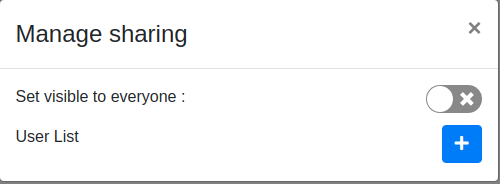
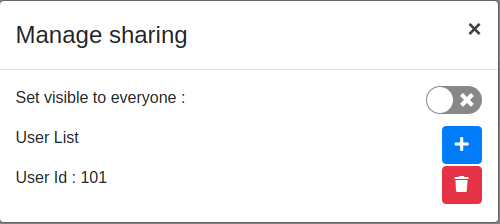
Front-end and API Docs updated

diff --git a/doc/Front-end/README.md b/doc/Front-end/README.md
@@ -67,41 +67,242 @@ Every component folder follow the same pattern and splitted in various files wit
 Now, as we are done with the basic information we will go through the components one by one.
 
 1. `about`: It's a simple static page.
-![about](./images/about.png)
 
-2. `addSound`: 
-![addSound](./images/addSound.png)
+    ![about](./images/about.png)
 
-3. `contact`: It's a simple static page.  
-![contact](./images/contact.png)
+2. `addSound (Class: AddSound)`:This one return the component shown below.  
+    - `required props`: 
+        - `name`: onSoundSelect, `type`: method  
 
-4. `form`: This folder consist of various self-explanatory custom made advance form inpust component which can be directly used throught the project
+    ![addSound1](./images/addSound_1.png)
 
-5. `header`:
-![header_1](./images/header_1.png)
-![header_2](./images/header_2.png)
+    If you click on the `select sound` button below modal will appear listing all the sounds files current user have.
+
+    ![addSound](./images/addSound.png)
+
+    How it does that?
+
+    When you click the `select sound` it calls the `fetchAudio` method to get information from the database and store them in the component state.Once the information is saved it calls the toggleModal button which simply results in the above shown modal.The bootstrap modal have a `ReactTable` component inside it's body and use the data from the component state to display the rows.  
+
+    You can see the `select` button along with every row in the table, it pass the info of the selected sound to the method `onSoundSelect` which is passed as a prop to the component.
+
+    Note: we will talk about the `fetchAudio` method and `player` which is shown in the control column in `sounds` component
+
+3. `contact (Class: Contact)`: It's a simple static page.  
+
+    ![contact](./images/contact.png)
+
+4. `form`: This folder consist of various self-explanatory custom made advance form input component which can be directly used throught the project
+
+5. `header (Class: Header)`: Only has a one simple `index.js` file which is resposible for rendering a dynamic navbar. It uses the method `isUserLoggedIn` from `common.js`. 
+
+    If no user is logged then the returned navbar will look like
+
+    ![header_1](./images/header_1.png)
+
+    If a user is logged in then the returned navbar will look like
+
+    ![header_2](./images/header_2.png)
+
+    The `logout button` which appear when a user is logged in, clears the `session storage` and `redirect user` to the root when `clicked`.
 
 6. `home`:  It's a simple static page.
-![home](./images/home.png)
 
-7. `login`:  
-![login](./images/login.png)
+    ![home](./images/home.png)
 
-8. `projectEditor`:  
-![projectEditor_1](./images/projectEditor_1.png)
-![projectEditor_2](./images/projectEditor_2.png)
-![projectEditor_3](./images/projectEditor_3.png)
-![projectEditor_4](./images/projectEditor_4.png)
+7. `login`: It has three files.
+    
+    - `actions.js`: This one has the following api call methods
+        
+        - `loginUser`: It takes the email and password as payload and return the token on successfull login or else return with a error message.More info : [/api/v1/user/sign_in](../API/login)
+
+        - `redirectToHome`: Method to redirect window to home
+    
+    - `form.jsx (Class: LoginForm)`: 
+        - `props`:
+            - `name`: afterSignin, `type`: method
+
+        It returns a form component with two input fields `email` and `password` with a submit button.Values in the component state for `email`and `password` is initializaed as null and changes with input change in form fields. 
+
+        When submit button is clicked the state values of `email` and `password` is passed as payload to `loginUser` method and once a user is logged in `afterSignin` method is triggered which was passed as prop.
+    
+    - `index.jsx (Class: Login)` It render the `LoginForm` class alog with a router link to move to register page.A screenshot is shown below. 
+    ![login](./images/login.png)
+
+8. `projectEditor(Class: ProjectEditor)`:  I will only be covering top level of this component.
+
+- `actions.js`: This one has the following api call methods
+
+    - `updateProject`: It can be used to update project information if you have a project_id. More Info:  [/api/v1/projects/update](../API/projects/update)
+
+    - `createProject`: You can pass the project details to this method and it will insert the project in the database. More Info:  [/api/v1/projects/new](../API/projects/new)
+
+    - `fetchUserProject`: It takes projec_id as input and extract all info of it from the server and save it in the component state.
+
+- `index.css`: Stylesheet rules imported in `index.js` of current level
+
+- `index.js`: This component allow you to `create`, `edit` and `export` a project.
+
+    It return a different view based on the user is logged in or not as we show in `header`.  
+    Below is a the view which is returned if a user is not logged in, we can only create a project in this case.  
+
+    ![projectEditor_1](./images/projectEditor_1.png)
+
+    We only have two actions in this case.
+
+    - `New`:  It's a dropdown button using which you can add different sound modules in the project. More Info [Module Walkthrough](../GUI/module_walkthrough)
+
+    - `Register to save`: This component has two modal in it.One is to register a user and other is where user can put project name and description.
+
+        This button will open the modal for registeration as shown below.
+
+        ![projectEditor_4](./images/projectEditor_4.png)
+
+        This modal simply render the `RegisterForm` Class in the modal body.  
+        Once, you have registered the second modal will appear as shown below asking for the project information so it can be saved in the database.
+
+        ![projectEditor_3](./images/projectEditor_3.png)
+
+        Once you filled the information and click on the `Create` button the info will be passed to the `createProject` method which make a entry for that project in the database and once it's done user gets redirected to the project edit screen.
+
+    Now we will talk about how this component is rendered if a user is logged in.  
+    In create mode, process will remain the same but this time `user register` modal will be skipped.  
+
+    In this section, we will check how the existed project is `saved` and `exported`.You can check component view in the image below.
+
+    ![projectEditor_2](./images/projectEditor_2.png)
+
+    We have a 3 functionalities
+
+    - **New**: It's same as we explained earlier
+
+    - **Save**: When it's clicked it get the state from redux store and pass it to the `updateProject` method.
+
+    - **Export Project**: This button first extract the state from redux store then calls a local `downloadFile` method which is responsible for writing the project information in a json file and triggering the download. 
+
 
 9. `projects`:
-![project_1](./images/project_1.png)
-![project_2](./images/project_2.png)
-![project_3](./images/project_3.png)
+    - `actions.jsx`: This one has the following api call methods
+
+        - `removeProject`: It takes the project_id as payload and delete it to the server.More info : [/api/v1/projects/remove](../API/projects/remove)
+
+        - `cloneProject`: It takes the project_id as payload and make a copy of it and save it to the server with owner as current user. More info : [/api/v1/projects/addShare](../API/projects/sharing/add)
+
+        - `addSharedUser`: It takes the updated sharing setting in payload and sync it with the server. More info : [/api/v1/projects/removeShare](../API/projects/sharing/remove)
+
+        - `removeSharedUser`: It takes the user_id or email and project_id in payload and remove that user to the project as shared_user.More info : [/api/v1/projects/get](../API/projects/get)
+
+        - `setProjectPublic`: It takes the project_id as payload and update it's public flag to true in the databse. More info : [/api/v1/projects/setPublic](../API/projects/sharing/public)
+
+        - `fetchUserProjects`: It fetch info of all the project owned or shared by/with current user from the databse. More info : [/api/v1/projects/get](../API/projects/get)
+
+    - `index.jsx`: This file return the component shown below.It mainly consist of two parts, first is a table which list all theproject owned or shared by/with current user and second is the action row above table having a `Search Input`and `Import Project` button.
+
+        ![project_1](./images/project_1.png)
+
+    First, let's talk about how the table is being rendered.  
+    When component gets mounted it calls the method `fetchUserProjects` which returns the projects list from database which is used as the rows in the shown table as well as stored as `projects` property in component state.  
+    Let's talk about each column of the shown table.
+
+    - `Name` : Name of the project
+
+    - `Description` : Description of the project if it has any
+
+    - `Created By` : It shows the user_id of the owner of the project
+
+    - `Shared With` : It shows the project sharing status, it will show `Everyone` if the project is public or else simply list the user_id of users who can access this project.
+
+    - `Actions`: It has as a total of 4 buttons `Edit`, `Share`, `Clone` and `Delete`.`Clone` and `Delete` button are conditional as you can only delete a project is you own it and you can only clone a project if it's shared with you.
+
+        - `Edit`:  It will simply redirect you to the `projectEditor` component where you can edit the project.
+
+        - `Share`: We do have two modal in this component.Once is to add a new shared user and other is to remove a user or set the project to public.
+            
+            Once, you click on the share button below modal will appear.As you can see we have a `toggle button`, a list of `users` along with a `delete` button and a `Add` button on right hand side of `User List` heading. 
+
+            ![project_3](./images/project_3.png)
+
+            - `Toggle Button`: It trigger the method `setProjectPublic` with current toggle button value as payload which return updated project sharing setting.
+
+            - `Delete Button`: It remove that user from project sharing setting and pass the updated setting to `removeSharedUser` method which result in updation of change on database.
+
+            - `Add Button`: It provides a way to share the project with another user.Below modal will appear once you clicked on it.  
+            ![project_2](./images/project_2.png)
+
+                Here you can see two input fields, you need to enter wither `user_id` or `email` to add an user.You can't enter both as the other input will automatically disappear once you start typing in one of them.
+                You can click on the `add` button to trigger `addSharedUser` method.
+
+        - `Clone`: It trigger a `cloneProject` method and add the retuned project info ny method to component state.
+
+        - `Delete`: It trigger a `confirm dialog` for deletion and once the `user confirm it` calls `removeProject` method passing `project_id` as payload which results in deletion of the project from the server.
+
+    Now, let's go through the top actionbar
+
+    - `Search Input`: The table on the page do a filteration based on a `filter` string and only show the projects which pass that filter.This input is responsible for updating the value of `filter` string on every input change.
+
+    - `Import Project`: Onclicked it trigger a click on `input` of `file type` resulting in a window of file selection where you can select a valid project JSON.Once you select a valid project JSON, it's passed to the `handleFileRead` method which reads the JSON and extract all needed project values and save it to server.
+    
 
 10. `register`:
-![register](./images/register.png)
 
-11. `sounds`:
-![sounds_1](./images/sounds_1.png)
-![sounds_2](./images/sounds_2.png)
+    - `actions.js`: This one has the following api call methods
+        
+        - `registerUser`: It takes the email, password and name as payload and return the token on successfull registeration or else return with a error message.More info : [/api/v1/user/register](../API/register)
+
+        - `redirectToRoot`: Method to redirect window to root
+    
+    - `form.jsx (Class: RegisterForm)`: 
+        - `props`:
+            - `name`: afterRegister, `type`: method
+
+        It returns a form component with three input fields `name`, `email` and `password` along with a submit button.Values in the component state for `name`, `email`and `password` is initializaed as null and changes with input change in form fields. 
+
+        When submit button is clicked the state values of `name`, `email` and `password` is passed as payload to `registerUser` method and once a user is registered `afterRegister` method is triggered which was passed as prop.
+    
+    - `index.jsx (Class: Register)`: It render the `RegisterForm` class alog with a router link to move to login page.A screenshot is shown below.
+
+        ![register](./images/register.png)
+
+11. `sounds (Class: Sounds)`: It has two files.
+    - `actions.jsx`: This one has the following api call methods
+
+        - `serveAudio`: This method is for the media which are uploaded by the user, it takes the sound_id as payload and return a url which respond with the media file on triggered. More Info: [/api/v1/sounds/serveAudio/:audioId/:token](../API/media/stream)
+
+        - `getAudio`: This method is for the media which are added using an external link, it takes the sound_id as payload and return a the external url submitted by user.More Info: [/api/v1/sounds/getAudio/:audioId/:token](../API/media/getAudio)
+
+        - `uploadSound`: It takes the audio file as payload and upload it to the server.More info : [/api/v1/sounds/upload](../API/media/upload)
+
+        - `removeAudio`: It takes the audio_id as payload and remove it to the server .More info : [/api/v1/sounds/remove](../API/media/remove)
+
+        - `fetchAudio`: It fetch info of all the media uploaded by current user from the databse .More info : [/api/v1/sounds/get](../API/media/get)
+
+        - `toggleAudioSharing`: It's used to change the media sharing mode of current user. More info : [/api/v1/sounds/toggleAudioSharing](../API/media/toggleMediaSharing)
+
+        - `addSoundLink`: This method add the link to the database and return with the added media information from database. More info : [/api/v1/sounds/addSoundLink](../API/media/addSoundLink)
+
+    - `index.jsx`: This file return the component shown below.It mainly consist of two parts, first is a table which list all the sounds uploaded or added by current user and second is the action row above table having three button `Make Media Public : Yes/No`, `Upload Sound` and `Add Online Sound`
+        
+        ![sounds_1](./images/sounds_1.png)
+
+    First, let's talk about how the table is being rendered.  
+    When component gets mounted it calls the method `fetchAudio` which returns the sounds list from database which is used as the rows in the shown table.  
+    Let's talk about each column of the shown table.
+
+    - `Id` : It's the sound_id which is unique to every media 
+
+    - `Name` : Name of the uploaded sound
+    
+    - `Controls`: It actually render a `ReactAudioPlayer`, which takes `src` prop as to identify which sound to play.we get the `src` value by passing `sound_id` to the `serveAudio` method if it's uploaded on the server or if it's a sound link we use `getAudio` method.
+
+    - `Actions`: It has a `delete button` which simply trigger a `confirm dialog` for deleting and once the `user confirm it` calls `removeAudio` method passing `sound_id` as payload which results in removal of the media from the server.
+
+    Now, let's go through the button in top actionbar one by one
+
+    - `Make Media Public : Yes/No`: It simply calls `toggleAudioSharing` method with the desired state result in changing sharing setting of the user.
+
+    - `Upload Sound`: Onclicked it trigger a click on input of file type resulting in a window of file selection.If you select a file, it's passed to the `uploadSound` method which results in uploading of the selected file.Sound info is returned once the sound is successfully uploaded.
+
+    - `Add Online Sound`:  Onclicked it trigger a input dialog asking for the url of the media you want to add as shown below.If you enter a valid url, it's passed to the `addSoundLink` method which results in addition of the selected url in the database.Sound info is returned once the sound is successfully added.
+    
+        ![sounds_2](./images/sounds_2.png)
 

diff --git a/doc/API/media/toggleMediaSharing.md b/doc/API/media/toggleMediaSharing.md
@@ -1,0 +1,63 @@
+# Upload Media To Server
+
+Used to upload media to server
+
+**URL** : `/api/v1/sounds/toggleAudioSharing`
+
+**Method** : `POST`
+
+**Auth required** : YES
+
+**Permissions required** : none
+
+**Data example**
+To turn sharing `on`
+
+```json
+{
+    "sharing": true
+}
+```
+
+To turn sharing `off`
+
+```json
+{
+    "sharing": false
+}
+```
+
+## Success Response
+
+**Code** : `200 OK`
+
+**Content example**
+When sharing is turned `on`
+
+```json
+{
+    "data": "Audio Sharing Updated Successfully",
+    "sharing": true
+}
+```
+
+When sharing is turned `off`
+
+```json
+{
+    "data": "Audio Sharing Updated Successfully",
+    "sharing": false
+}
+```
+
+## Error Response
+
+**Code** : `400 BAD REQUEST`
+
+**Content** :
+
+```json
+{
+    "err": "[Valid Error]"
+}
+```

diff --git a/doc/API/media/addMediaLink.md b/doc/API/media/addMediaLink.md
@@ -1,0 +1,45 @@
+# Add media using link
+
+Used to Add a new media using external link
+
+**URL** : `/api/v1/sounds/addSoundLink`
+
+**Method** : `POST`
+
+**Auth required** : YES
+
+**Permissions required** : none
+
+**Data example**
+
+```json
+{
+    "audioLink": "[Valid external media link]"
+}
+```
+
+## Success Response
+
+**Code** : `200 OK`
+
+**Content example**
+
+```json
+{
+    "sound_id": "[soundId]",
+    "user": "[current user id]",
+    "name": "Sound Link"
+}
+```
+
+## Error Response
+
+**Code** : `400 BAD REQUEST`
+
+**Content** :
+
+```json
+{
+    "err": "[Valid Error]"
+}
+```

diff --git a/doc/API/media/getAudio.md b/doc/API/media/getAudio.md
@@ -2,7 +2,7 @@
 
 Stream media content
 
-**URL** : `/api/v1/sounds/serveAudio/:audioId/:token`
+**URL** : `/api/v1/sounds/getAudio/:audioId/:token`
 
 **Method** : `GET`
 
@@ -16,7 +16,11 @@ Stream media content
 
 **Content examples**
 
-Start Streaming the media in form of chunks whose audio id is sent in request parameters
+```json
+{
+    "location": "[Valid external url]"
+}
+```
 
 ## Error Response
 
